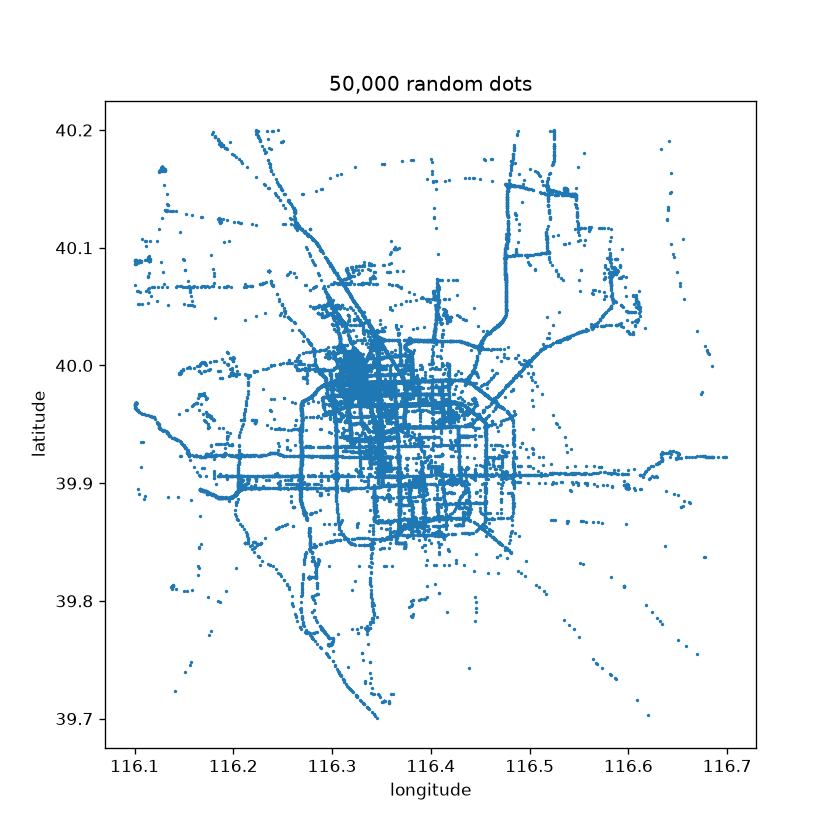
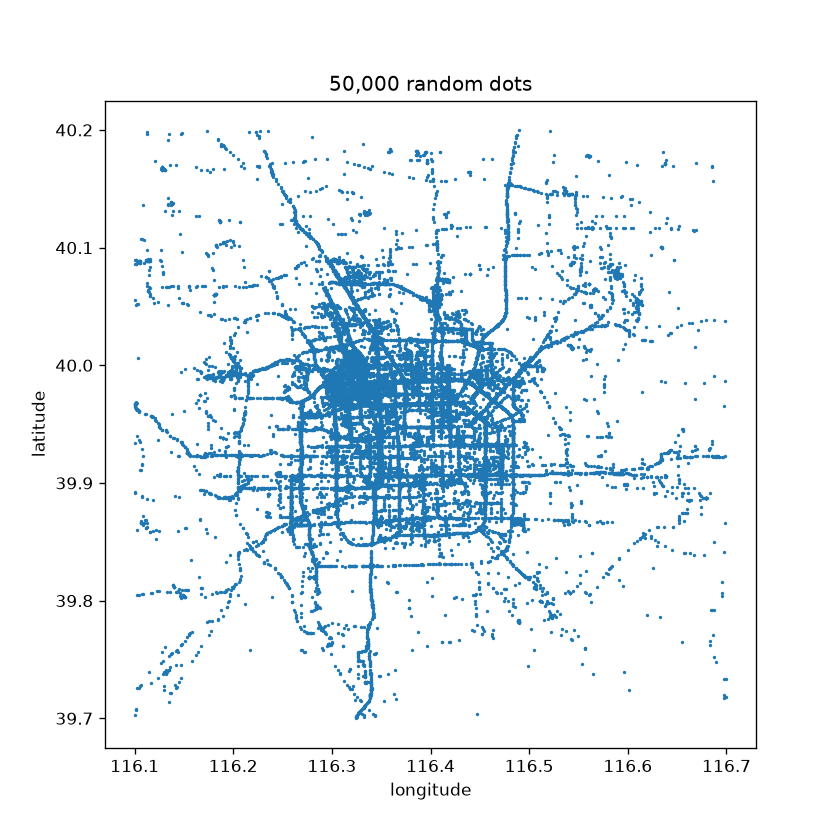
resolved a small bug while loading entire data setted up data for snowflake

diff --git a/ingestion/common.py b/ingestion/common.py
@@ -6,14 +6,19 @@ import pandas as pd
 PROCESSED_DIR = Path("data/processed")
 
 def load_processed() -> pd.DataFrame:
-
     files = sorted(PROCESSED_DIR.glob("*.csv.gz"))
     if not files:
         raise SystemExit("No files in data/processed. Run clean_and_export.py first.")
-    return pd.concat(
-        (pd.read_csv(f, dtype={"device_id": str}, parse_dates=["ts_local"]) for f in files),
-        ignore_index=True,
-    )
+
+    frames = []
+    for file in files:
+        frame = pd.read_csv(file, dtype={"device_id": str}, parse_dates=["ts_local"])
+        if not frame.empty:
+            frames.append(frame)
+
+    if not frames:
+        raise SystemExit("No rows in data/processed. Run clean_and_export.py first.")
+    return pd.concat(frames, ignore_index=True)
 
 
 def haversine_m(lat1, lon1, lat2, lon2):

diff --git a/ingestion/check_data.py b/ingestion/check_data.py
@@ -1,5 +1,6 @@
 """Print basic facts and draw a scatter plot."""
 import matplotlib.pyplot as plt
+from pathlib import Path
 from common import load_processed
 
 df = load_processed()
@@ -17,5 +18,7 @@ plt.scatter(sample["lon"], sample["lat"], s=1)
 plt.xlabel("longitude")
 plt.ylabel("latitude")
 plt.title("50,000 random dots")
-plt.savefig("docs/scatter.png", dpi=120)
+output = Path("docs/scatter.png")
+output.parent.mkdir(parents=True, exist_ok=True)
+plt.savefig(output, dpi=120)
 print("\nSaved docs/scatter.png")
